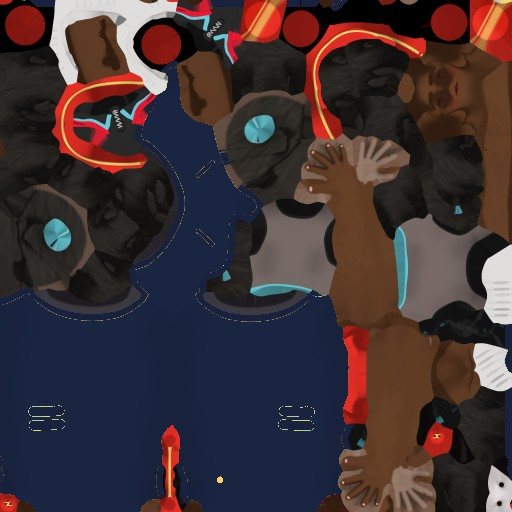
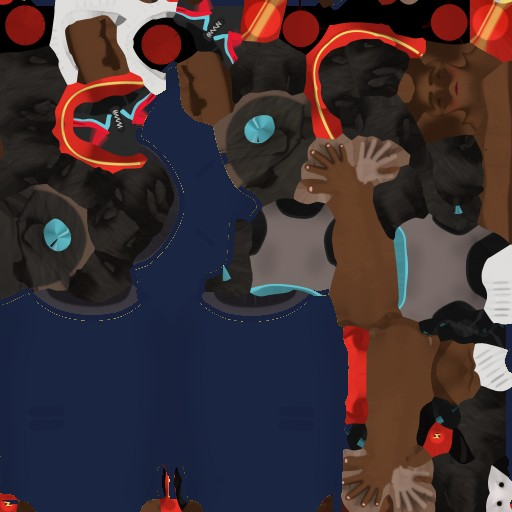
Pantalon de costume : ourlet plafonne (plus de pointes), drap uni
L'allongement de l'ourlet poussait des sommets sous le sol et etirait les
faces raccordees a la chaussure : il est plafonne au-dessus de la
chaussure. Les motifs du genou et le revers gris sont reteints en bleu
marine sans deborder sur les baskets.

Claude-Session: https://claude.ai/code/session_01LiifkhxGTztrRFdkzpxQGe

diff --git a/src/actors/tailor.ts b/src/actors/tailor.ts
@@ -15,9 +15,11 @@ function target(t: number): number {
 }
 
 // Allongement du bas : le revers qui laissait la cheville nue descend sur la
-// chaussure (t = 1 -> 1.19), comme un pantalon de costume.
+// chaussure (plafonne a t = 1.06), comme un pantalon de costume.
 const HEM0 = 0.75;
-const stretch = (t: number) => (t < HEM0 ? t : HEM0 + (t - HEM0) * 1.75);
+// Plafonne a t = 1.06 : au-dela, les sommets passeraient sous le sol et
+// etireraient les faces raccordees a la chaussure.
+const stretch = (t: number) => (t < HEM0 ? t : Math.min(1.06, HEM0 + (t - HEM0) * 1.35));
 
 // `rest` : os au repos (meme squelette), dans l'espace de la scene.
 export function tailorTrousers(body: THREE.SkinnedMesh, rest: Map<string, THREE.Object3D>) {

diff --git a/tools/blender/build_uniform.py b/tools/blender/build_uniform.py
@@ -305,14 +305,24 @@ tint = np.array([0.105, 0.15, 0.27])  # meme bleu marine que la veste (#1a2544)
 k = (0.95 + 0.2 * (np.clip(lum / 0.8, 0.35, 1.2) - 1))[..., None]
 px[..., :3] = np.where(yellow[..., None], tint * k, px[..., :3])
 # Bandes decoratives du pantalon (au milieu des zones reteintes) -> uni.
+# Motifs a l'interieur du pantalon : pixels encadres de drap des deux cotes
+# (horizontalement ou verticalement) a moins de 18 px. Les chaussures, hors
+# de la zone, ne sont pas touchees.
+def framed(mask, axis, reach=18):
+    lo = np.zeros_like(mask)
+    hi = np.zeros_like(mask)
+    for d in range(1, reach + 1):
+        lo |= np.roll(mask, d, axis)
+        hi |= np.roll(mask, -d, axis)
+    return lo & hi
+
+
+plain = ~yellow & (framed(yellow, 0) | framed(yellow, 1))
+# Revers gris du bas (bord de l'ilot, non encadre) : gris neutre tout pres du drap.
 near = yellow.copy()
-for _ in range(7):
+for _ in range(6):
     near = near | np.roll(near, 1, 0) | np.roll(near, -1, 0) | np.roll(near, 1, 1) | np.roll(near, -1, 1)
-cyan = near & (b > 0.55) & (g > 0.5) & (r < 0.45)
-# Bandes et revers sombres du sarouel -> meme drap bleu marine (pantalon uni).
-dark = near & ~yellow & (lum < 0.25) & (np.abs(r - b) < 0.12)
-bluish = near & ~yellow & (b > r + 0.12)
-plain = cyan | dark | bluish
+plain |= near & ~yellow & (lum < 0.45) & (np.abs(r - b) < 0.08) & (np.abs(r - g) < 0.08)
 px[..., :3] = np.where(plain[..., None], tint * 0.9, px[..., :3])
 print('pantalon uni', int(plain.sum()), 'pixels')
 cloth = yellow | plain
